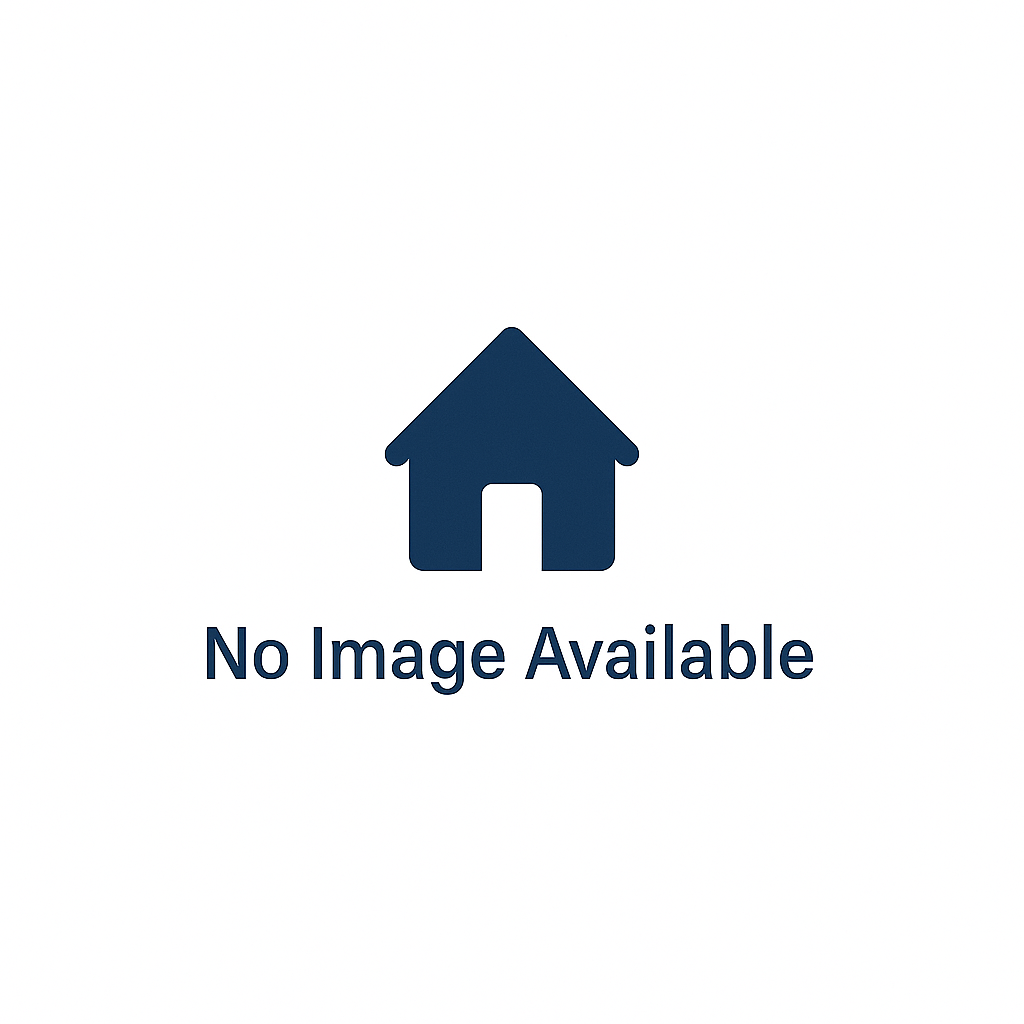
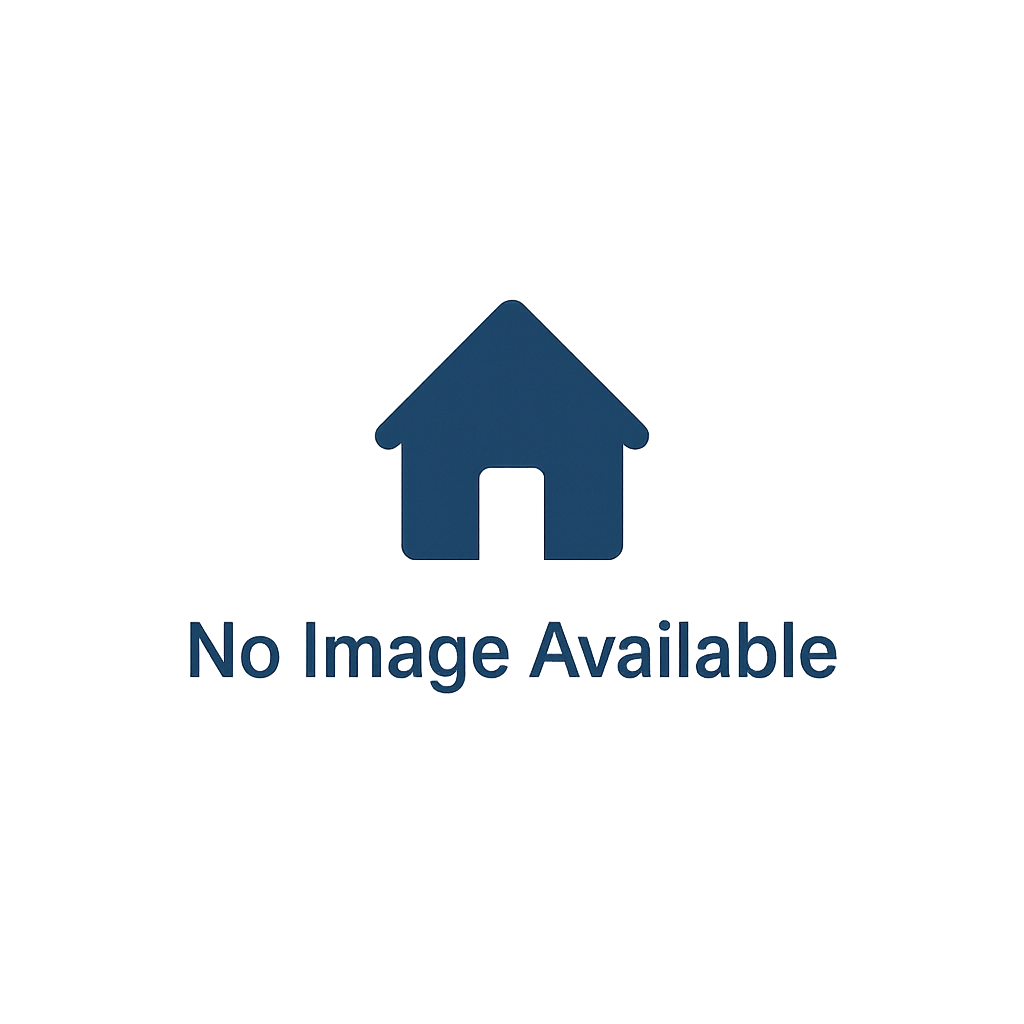
Update image references in PropertyView, HomePage, and PropertyPreview components
- Replaced instances of the unavailable image with a new image source for better consistency across the application.
- Removed outdated image files that are no longer in use, streamlining the assets directory.

Changed region(s): [[0.1875, 0.5938, 0.8125, 0.6875], [0.3438, 0.2812, 0.6562, 0.5625], [0.4688, 0.4375, 0.5312, 0.5]]

diff --git a/components/properties/PropertyPreview.tsx b/components/properties/PropertyPreview.tsx
@@ -316,7 +316,7 @@ const PropertyPreview = ({
               source={
                 property.images[0]?.url
                   ? { uri: property.images[0].url }
-                  : require('../../assets/images/NotAvalibleImg3.png')
+                  : require('../../assets/images/NotAvalibleImg.png')
               }
               className="w-full h-72"
               resizeMode="cover"
@@ -369,7 +369,7 @@ const PropertyPreview = ({
               source={
                 property.images[0]?.url
                   ? { uri: property.images[0].url }
-                  : require('../../assets/images/NotAvalibleImg3.png')
+                  : require('../../assets/images/NotAvalibleImg.png')
               }
               className={'w-full h-48 rounded-t-2xl'}
               resizeMode="cover"

diff --git a/app/(root)/(tabs)/home.tsx b/app/(root)/(tabs)/home.tsx
@@ -996,7 +996,7 @@ const HomePage = () => {
                   ) : (
                     <View className="justify-center items-center">
                       <Image
-                        source={require('@/assets/images/NotAvalibleImg3.png')}
+                        source={require('@/assets/images/NotAvalibleImg.png')}
                         style={{
                           width: width,
                           height: height,

diff --git a/app/(root)/(properties)/propertyView.tsx b/app/(root)/(properties)/propertyView.tsx
@@ -352,7 +352,7 @@ const PropertyView = () => {
         ) : (
           <View className="w-full h-60 bg-gray-200 justify-center items-center mb-4">
             <Image
-              source={require('@/assets/images/NotAvalibleImg3.png')}
+              source={require('@/assets/images/NotAvalibleImg.png')}
               style={{ maxWidth: 500, maxHeight: 300, width: '100%' }}
             />
           </View>
